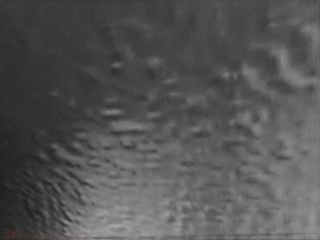
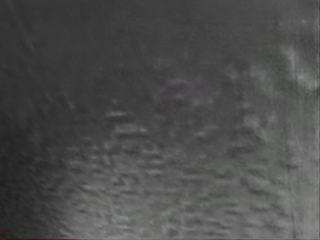
docs: add Layer 2 IBVS + Layer 3 RH-P12-RN commands to command reference

diff --git a/Thesis_Documentation/10_Command_Reference.md b/Thesis_Documentation/10_Command_Reference.md
@@ -404,12 +404,15 @@ parallel env, Layer 1 untouched. Run from `~/Abdur_Rabbi_THESIS/IsaacLab`, insid
 
 **10.1 — Build the merged UR5e + RH-P12-RN USD** (URDF → USD → one articulation).
 ```bash
-./isaaclab.sh -p ../ur5_grasp/tools/make_ur5e_rhp12_usd.py
+./isaaclab.sh -p ../ur5_grasp/tools/make_ur5e_rhp12_usd.py --headless
 ```
 *Why/when:* once, to build the asset. Converts the vendored URDF, merges it onto the flange, validates,
 and runs a finger-stroke sweep. Writes `ur5_grasp/assets/ur5e_rhp12.usd` + `tools/make_rhp12_report.txt`
 (loads as 10 joints / 12 bodies). Optional: `--mount_pos "x y z"`, `--mount_rpy "r p y"` (default flange
-mount was already correct), `--skip_convert` (reuse an existing `rh_p12_rn.usd`).
+mount was already correct), `--skip_convert` (reuse an existing `rh_p12_rn.usd`),
+`--gripper_color "r g b"` (default `"0.02 0.02 0.02"` — renders the hand near-black so it's
+distinguishable from the grey arm in the GUI). Quick re-colour without reconverting:
+`./isaaclab.sh -p ../ur5_grasp/tools/make_ur5e_rhp12_usd.py --headless --skip_convert`.
 
 **10.2 — Grasp-hold + TCP calibration sweep** (contact only, weld off).
 ```bash
@@ -422,8 +425,38 @@ reports `face_gap` (pad-face opening vs the 41.2 mm cube). *Result:* **`TCP_OFFS
 Optional: `--offsets "0.100 0.110 0.120 0.130 0.140"` (default is a wider set), `--seat_steps 45`,
 `--hold_steps 120`. Confirm run used `--offsets "0.125 0.130 0.135"`.
 
-> ⏳ **Next (not run yet):** train PPO on the real-gripper env and compare to the Layer 1 weld baseline:
-> `./isaaclab.sh -p ../ur5_grasp/scripts/train.py --task Isaac-Lift-Cube-UR5e-RHP12-v0 --headless --num_envs 4096`.
+**10.3 — Ready-pose geometry check** (MUST pass before training this env).
+```bash
+./isaaclab.sh -p ../ur5_grasp/scripts/rhp12_geometry_check.py \
+    --task Isaac-Lift-Cube-UR5e-RHP12-Play-v0 --num_envs 1 --headless
+```
+*Why/when:* right before the first RHP12 training run. `zero_agent.py` hardcodes Robotiq body names
+and crashes on this env, so this probe replaces it. At the ready pose it reports the `ee_frame` vs the
+true pad midpoint, its height above the table, and the `ee_frame → cube` distance — catching an
+unlearnable reach target (frame below the table / off the pads) before wasting a training run. Writes
+`results/rhp12_geometry_check.txt`. Optional: `--steps 40`; drop `--headless` to watch (the `ee_frame`
+marker is on). *Result:* passed — frame sits +0.212 m above the table, cleared for training.
+
+**10.4 — Train PPO on the contact env** (the Layer 3 payoff: weld vs real contact). Both runs
+1500 iters, `--num_envs 4096`, **`--seed 42`** so the two conditions are directly comparable.
+```bash
+# Stock reward (Layer-1-comparable sparse lift) — the PRIMARY contact result
+./isaaclab.sh -p ../ur5_grasp/scripts/train.py \
+    --task Isaac-Lift-Cube-UR5e-RHP12-Stock-v0 --headless --num_envs 4096 --seed 42
+
+# Shaped reward (dense lift-progress) — a separate safe-RL finding
+./isaaclab.sh -p ../ur5_grasp/scripts/train.py \
+    --task Isaac-Lift-Cube-UR5e-RHP12-v0 --headless --num_envs 4096 --seed 42
+```
+*Why/when:* after the geometry check, to prove the task is learnable **without the weld** and to
+measure what the weld cost. ~15 min each on the 5090. Cheap smoke first if you like:
+`--num_envs 256 --max_iterations 20`. *Findings:* stock reaches 94% of the weld run's lift reward
+(task learnable without the weld); the weld cost ≈ −37.6% episode reward, concentrated in placement
+precision; and the dense **shaped** reward backfired — it parked the arm on singularities (viol
+91.6% vs stock's 14.0%), which only the safety-cost channel caught (a strong motivation for cPPO).
+Task ids `…-RHP12-Stock-v0` / `-Stock-Play-v0` register the sparse-reward condition reproducibly.
+Success is compared with `eval_success.py` (§7) pointed at `…-RHP12-Play-v0`, not raw reward
+(shaping makes reward non-comparable).
 
 ---
 
@@ -483,7 +516,8 @@ Genuinely not run yet — listed so the map stays complete.
 - Add one **field-of-view** cost term to `SafetyCostComputer`, then eval like §6–§7.
 
 **Layer 3 — sim-to-real (real UR5e hardware).**
-- Train PPO/cPPO on `Isaac-Lift-Cube-UR5e-RHP12-v0` (the env is ready; run not done — see §10).
+- PPO on the contact env is **done** (§10.4). Still to run: **cPPO** on the RH-P12-RN contact env —
+  `./isaaclab.sh -p ../ur5_grasp/scripts/train.py --task Isaac-Lift-Cube-UR5e-RHP12-Stock-v0 --agent rsl_rl_cppo_cfg_entry_point --headless --num_envs 4096 --seed 42`.
 - ROS 2 Humble + `Universal_Robots_ROS2_Driver` bring-up; drive the real 1-DOF hand over DYNAMIXEL 2.0.
 - Load the JIT/ONNX export from `play.py` (§5.5) into a ROS 2 node; zero-shot test + measure real grasp
   success and safety behaviour.
@@ -531,8 +565,11 @@ python ~/Abdur_Rabbi_THESIS/results/scripts/make_layer1_figs.py
 ./isaaclab.sh -p ../ur5_grasp/scripts/ibvs_servo.py       --task Isaac-Lift-Cube-UR5e-Play-v0 --num_envs 1 --headless --enable_cameras   # classical IBVS servo
 
 # ── Layer 3: RH-P12-RN real gripper in sim ───────────────────────────────────
-./isaaclab.sh -p ../ur5_grasp/tools/make_ur5e_rhp12_usd.py                                                                                # build merged USD
-./isaaclab.sh -p ../ur5_grasp/scripts/rhp12_grasp_sweep.py --task Isaac-Lift-Cube-UR5e-RHP12-Play-v0 --num_envs 1 --headless              # contact grasp + TCP sweep
+./isaaclab.sh -p ../ur5_grasp/tools/make_ur5e_rhp12_usd.py --headless                                                                     # build merged USD
+./isaaclab.sh -p ../ur5_grasp/scripts/rhp12_grasp_sweep.py    --task Isaac-Lift-Cube-UR5e-RHP12-Play-v0  --num_envs 1 --headless          # contact grasp + TCP sweep
+./isaaclab.sh -p ../ur5_grasp/scripts/rhp12_geometry_check.py --task Isaac-Lift-Cube-UR5e-RHP12-Play-v0  --num_envs 1 --headless          # ready-pose geometry (before training)
+./isaaclab.sh -p ../ur5_grasp/scripts/train.py --task Isaac-Lift-Cube-UR5e-RHP12-Stock-v0 --headless --num_envs 4096 --seed 42            # PPO, contact, stock reward (primary)
+./isaaclab.sh -p ../ur5_grasp/scripts/train.py --task Isaac-Lift-Cube-UR5e-RHP12-v0       --headless --num_envs 4096 --seed 42            # PPO, contact, shaped reward
 
 # ── commit ───────────────────────────────────────────────────────────────────
 cd ~/Abdur_Rabbi_THESIS && git add -A && git status -s && git commit -m "..." && git push origin main
